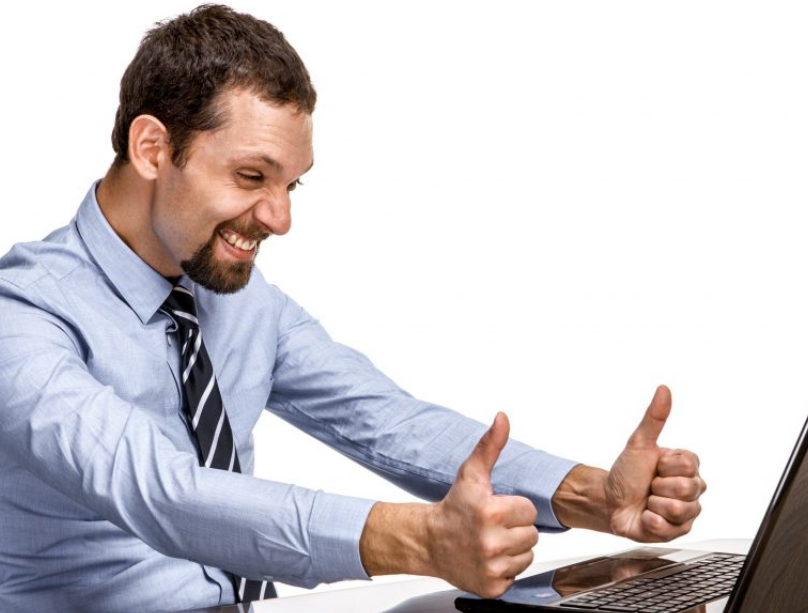
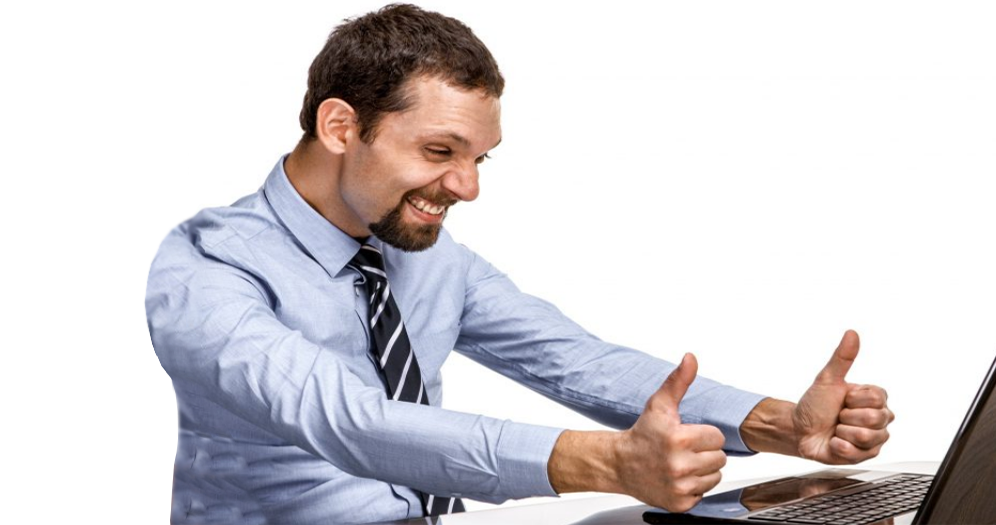
image update

diff --git a/css/style.css b/css/style.css
@@ -368,7 +368,7 @@ input[type="checkbox"]:checked{
     }
 
     .step05-bg {
-        background:url("/images/mb-step-05.png");
+        background:url("/images/payment.jpg");
         background-position: center;
         background-size: cover;
         background-repeat: no-repeat;
@@ -563,7 +563,7 @@ input[type="checkbox"]:checked{
     }
 
     .step05-bg {
-        background:url("/images/mb-step-05.png");
+        background:url("/images/payment.jpg");
         background-position: center;
         background-size: cover;
         background-repeat: no-repeat;
